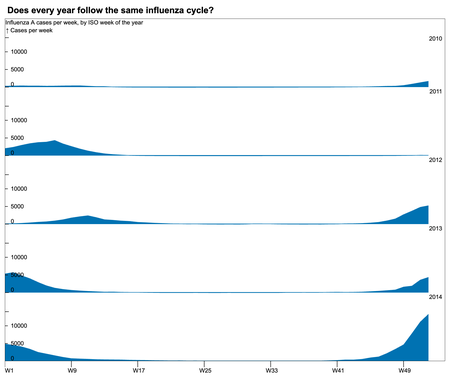
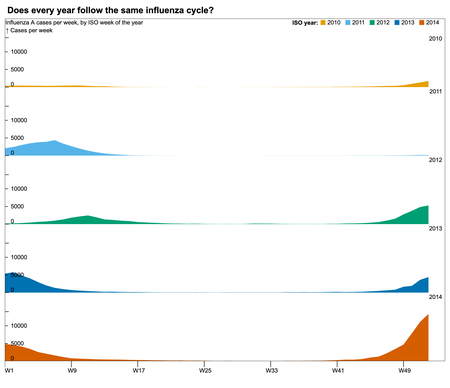
feat(examples): Brehmer #3 colored by ISO year, #11 in bluish green, so that the cell examples do not all share one blue

diff --git a/editor/example/spec/temporal-data_brehmer-flu-years.ts b/editor/example/spec/temporal-data_brehmer-flu-years.ts
@@ -1,5 +1,5 @@
 import type { GoslingSpec } from '@gosling-lang/gosling-schema';
-import { SINGLE } from './palette';
+import { yearColors } from './palette';
 
 // Brehmer et al. (2017) design #3: linear representation x chronological scale x segmented layout.
 // The time axis is cut into ISO week-based years (`period: { unit: "year", weekBased: true }`) and every year is
@@ -33,9 +33,16 @@ const spec = {
             },
             y: { field: 'INF_A', type: 'quantitative', domain: [0, 14000], axis: 'left', title: 'Cases per week' },
             row: { field: 'year', type: 'nominal', domain: YEARS, legend: true },
-            color: { value: SINGLE },
-            stroke: { value: SINGLE },
-            strokeWidth: { value: 1 },
+            // each year in its own color, the color of the season that starts in it (as in the other WHO examples)
+            color: {
+                field: 'year',
+                type: 'nominal',
+                domain: YEARS,
+                range: yearColors(YEARS),
+                legend: true,
+                title: 'ISO year'
+            },
+            strokeWidth: { value: 0 },
             width: 900,
             height: 700
         }

diff --git a/editor/example/spec/temporal-data_brehmer-industry-rings.ts b/editor/example/spec/temporal-data_brehmer-industry-rings.ts
@@ -1,5 +1,5 @@
 import type { GoslingSpec } from '@gosling-lang/gosling-schema';
-import { SINGLE } from './palette';
+import { OKABE_ITO } from './palette';
 
 // Brehmer et al. (2017) design #11: radial representation x chronological scale x faceted layout.
 // One revolution is the whole decade in absolute time (January 2000 to February 2010), and every industry is a
@@ -53,8 +53,9 @@ const spec = {
             tracks: [
                 {
                     mark: 'area',
-                    color: { value: SINGLE },
-                    stroke: { value: SINGLE },
+                    // one color for the 14 industries (more than the palette has); bluish green, not the blue of B3's neighbours
+                    color: { value: OKABE_ITO.bluishGreen },
+                    stroke: { value: OKABE_ITO.bluishGreen },
                     strokeWidth: { value: 0.5 }
                 },
                 {
